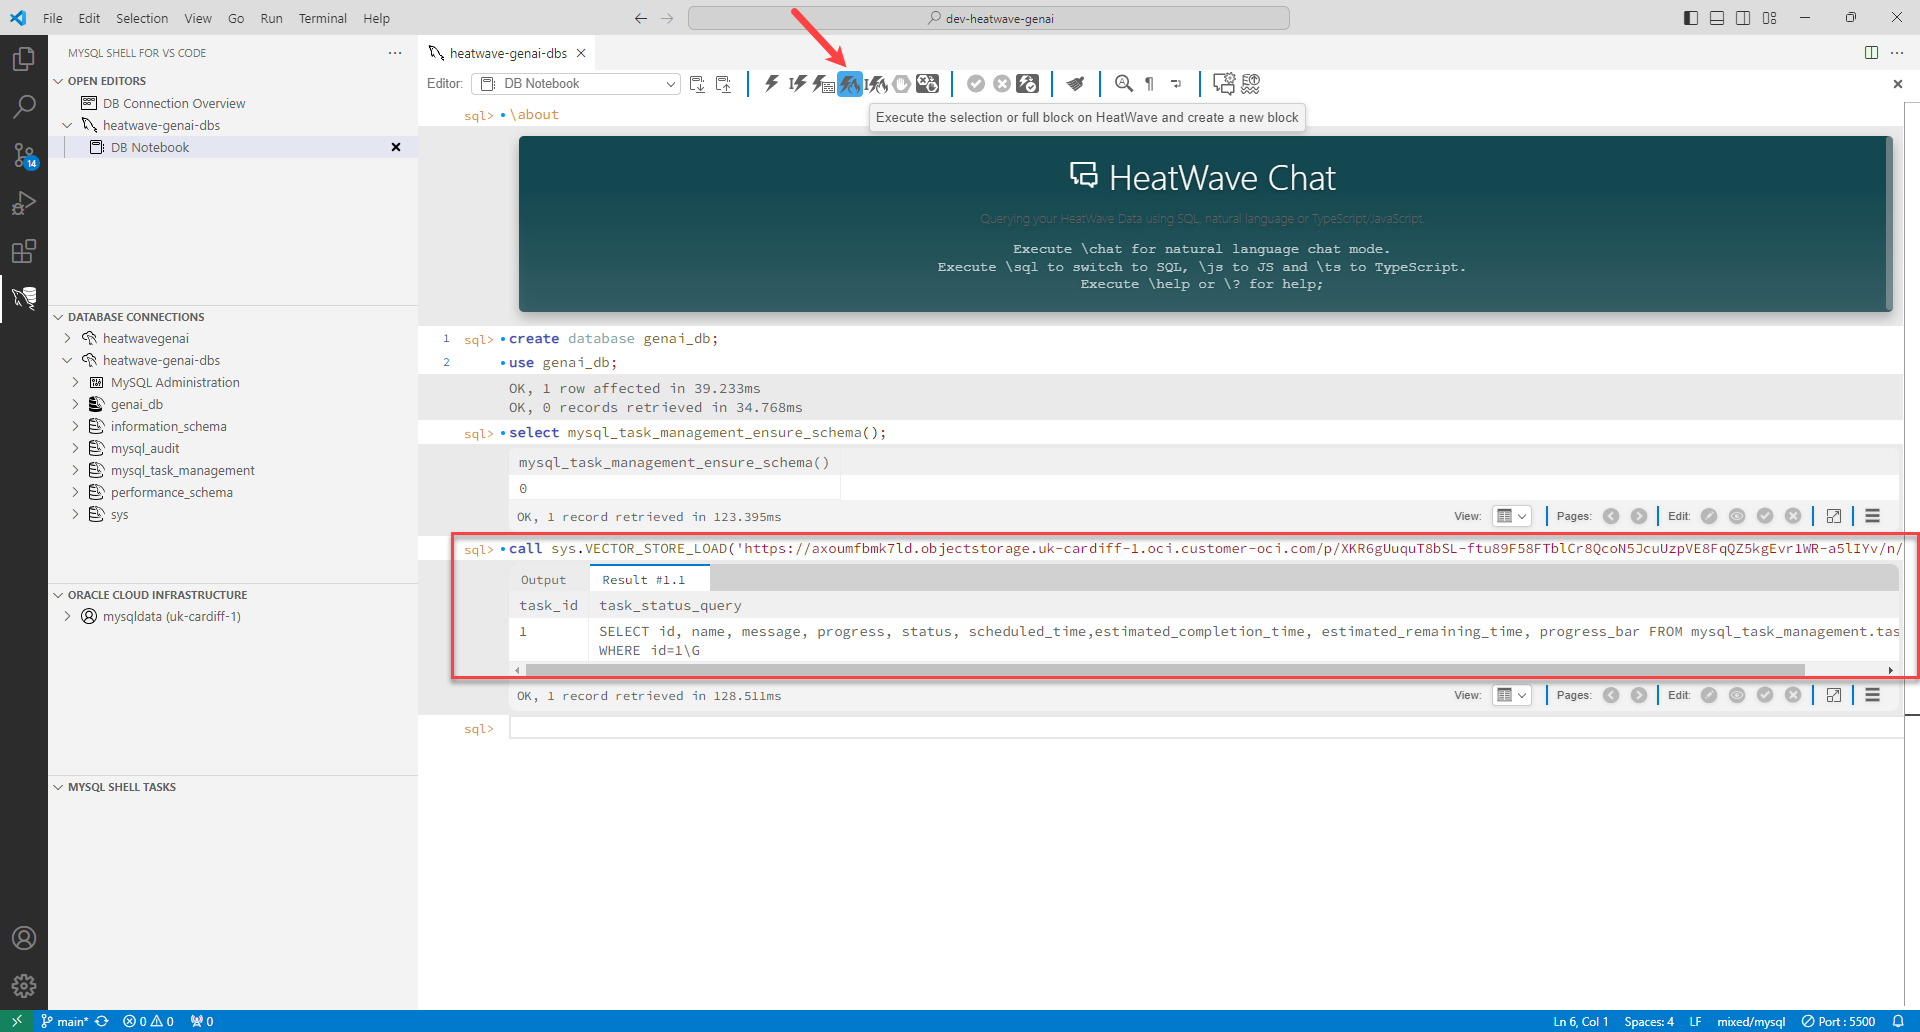
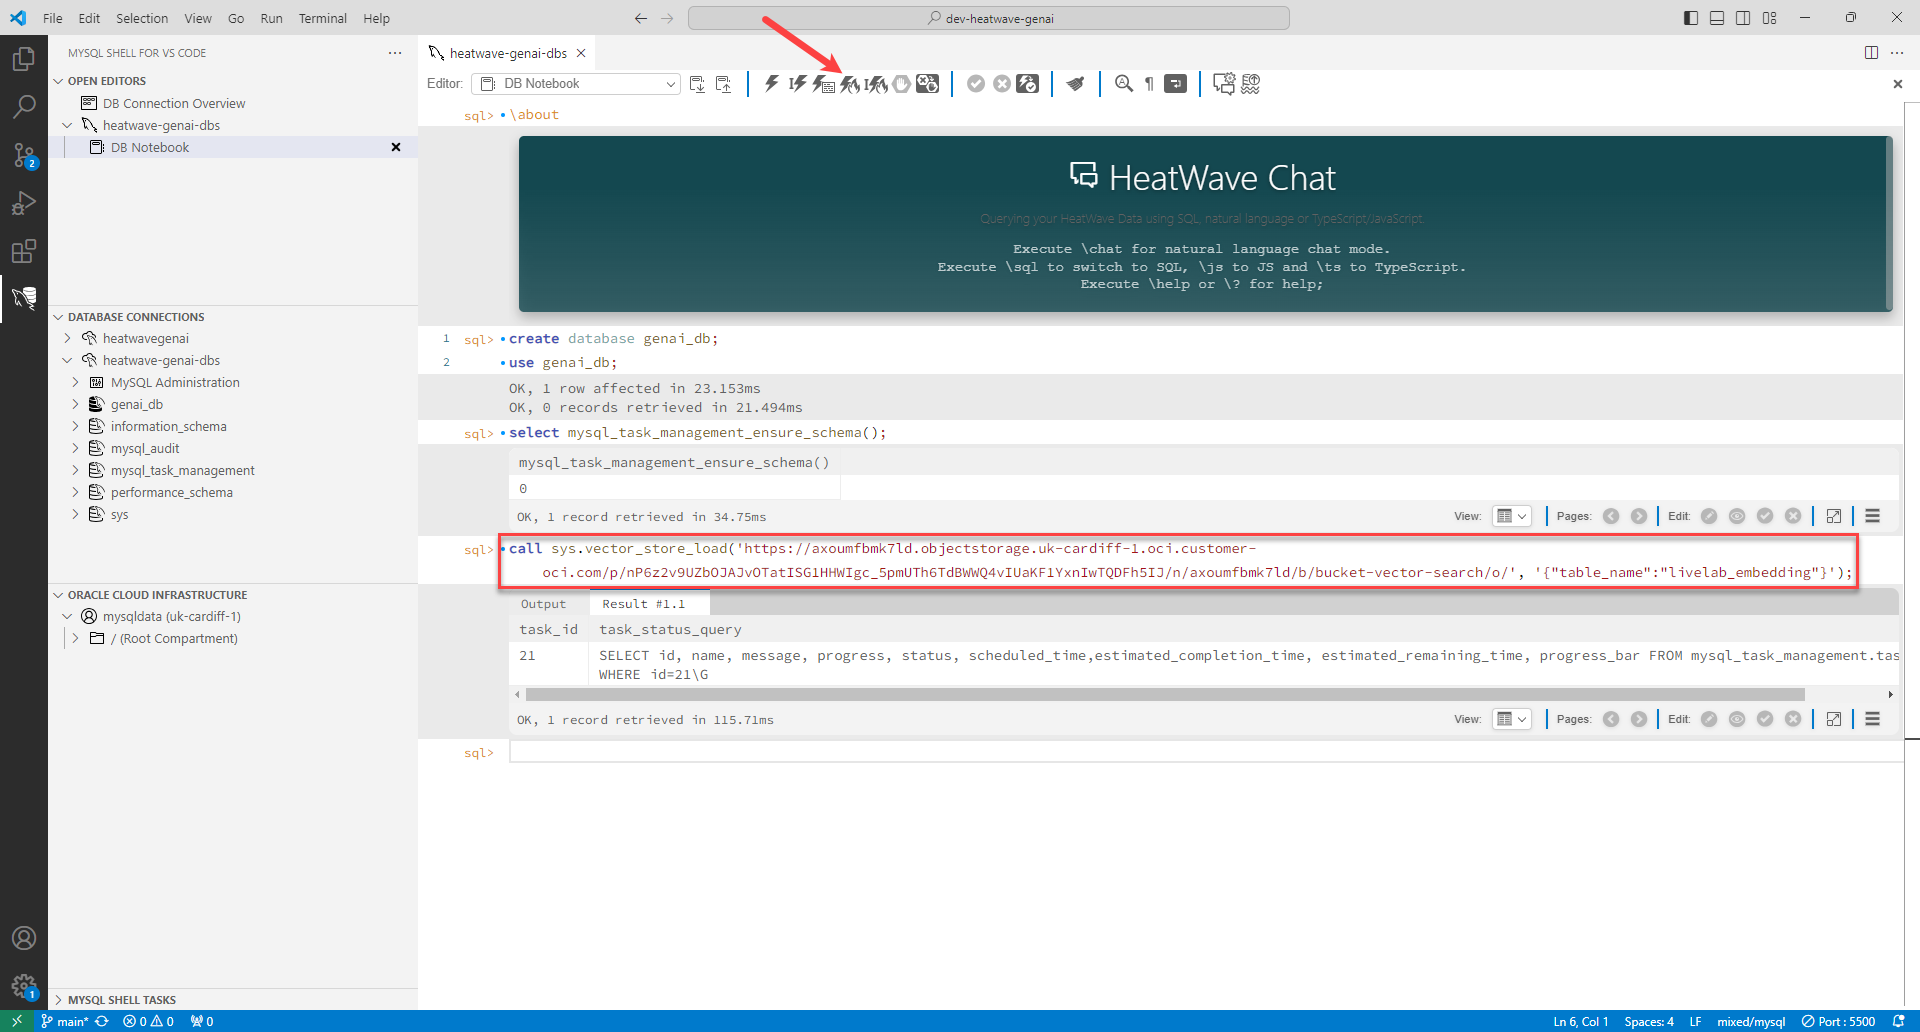
WMS ID: 11730: Updated Lab 5

diff --git a/vector-search/vector-search.md b/vector-search/vector-search.md
@@ -66,7 +66,13 @@ Pre-authenticated requests provide a way to let you access a bucket or an object
 
     ![Create Pre-Authenticated Request](./images/8-create-par.png "Create Pre-Authenticated Request")
 
-2. In the **Create Pre-Authenticated Request** dialog box, enter the **Name**, ensure **Bucket** is selected, and click **Create Pre-Authenticated Request**. You can choose to increase the **Expiration** date of the Pre-Authenticated Request.
+2. In the **Create Pre-Authenticated Request** dialog box, do the following:
+    - Enter the **Name**.
+    - Select **Bucket** in **Pre-Authenticated Request Target**.
+    - Select **Permits object reads** in **Access Type**.
+    - Select **Enable Object Listing**.
+    - You can choose to increase the **Expiration** date of the Pre-Authenticated Request.
+    - Click **Create Pre-Authenticated Request**. 
 
     ![Enter Pre-Authenticated Request details](./images/9-par-details.png "Enter Pre-Authenticated Request details")
 
@@ -116,7 +122,7 @@ Pre-authenticated requests provide a way to let you access a bucket or an object
 
     ![Ingest files from Object Storage](./images/14-ingest-files.png "Ingest files from Object Storage")
 
-5. Verify that embeddings are loaded in the vector embeddings table:
+5. Wait for a few minutes, and verify that embeddings are loaded in the vector embeddings table.
 
     ```bash
     <copy>select count(*) from <EmbeddingsTableName>;</copy>
@@ -125,14 +131,15 @@ Pre-authenticated requests provide a way to let you access a bucket or an object
     ```bash
     <copy>select count(*) from livelab_embedding; </copy>
     ```
+    You should see a numerical value in the output, which means your embeddings are successfully loaded in the table. If you get an error, wait for a few minutes and try again. It takes a couple of minutes to create vector embeddings.
 
-If you see a numerical value in the output, your embeddings are successfully loaded in the table.
+    ![Vector embeddings](./images/15-check-count.png "Vector embeddings")
 
 ## Task 5: Perform a vector search
 
 HeatWave retrieves content from the vector store and provide that as context to the LLM. This process is called as retrieval-augmented generation or RAG. This helps the LLM to produce more relevant and accurate results for your queries.
 
-1. Load the LLM in HeatWave.
+1. Load the LLM in HeatWave by entering the following command, and clicking **Execute the selection or full block on HeatWave and create a new block**.
 
     ```bash
     <copy>call sys.ML_MODEL_LOAD('LLMModel', NULL);</copy>
@@ -157,7 +164,7 @@ HeatWave retrieves content from the vector store and provide that as context to 
     For example:
 
     ```bash
-    <copy>set @options = JSON_OBJECT("vector_store", JSON_ARRAY("genai_db.livelab_embedding"));</copy>
+    <copy>set @options = JSON_OBJECT("vector_store", JSON_ARRAY("genai_db.livelab_embedding_pdf"));</copy>
     ```
 
 3. Set the session @query variable to define your natural language query.
@@ -174,14 +181,13 @@ HeatWave retrieves content from the vector store and provide that as context to 
     <copy>set @query="What is HeatWave AutoML?";</copy>
     ```
 
-    ![Set options](./images/17-set-options.png "Set options")
-
-
-4. Retrieve the augmented prompt, use the ML_RAG routine.
+4. Retrieve the augmented prompt, using the ML_RAG routine, and click **Execute the selection or full block on HeatWave and create a new block**.
 
     ```bash
     <copy>call sys.ML_RAG(@query,@output,@options);</copy>
     ```
+
+    ![Set options](./images/17-set-options.png "Set options")
 
 5. Print the output:
 
@@ -195,50 +201,7 @@ HeatWave retrieves content from the vector store and provide that as context to 
 
     - The citations section shows the segments and documents it referred to as context.
 
-The output looks similar to the following:
-
-```bash
-"text": " AutoML is a machine learning technique that automates the process
-of selecting, training, and evaluating machine learning models. It involves
-using algorithms and techniques to automatically identify the best model
-for a given dataset and optimize its hyperparameters without requiring manual
-intervention from data analysts or ML practitioners. AutoML can be used in
-various stages of the machine learning pipeline, including data preprocessing,
-feature engineering, model selection, hyperparameter tuning,
-and model evaluation.",
-"citations": [
-  {
-    "segment": "Oracle AutoML also produces high quality models very efficiently,
-    which is achieved through a scalable design and intelligent choices that
-    reduce trials at each stage in the pipeline.\n Scalable design: The Oracle
-    AutoML pipeline is able to exploit both HeatWave internode and intranode
-    parallelism, which improves scalability and reduces runtime.",
-    "distance": 0.4262576103210449,
-    "document_name": "https://objectstorage.Region.oraclecloud.com/n/Namespace/b/BucketName/o/Path/Filename"
-  },
-  {
-    "segment": "The HeatWave AutoML ML_TRAIN routine leverages Oracle AutoML
-    technology to automate the process of training a machine learning model.
-    Oracle AutoML replaces the laborious and time consuming tasks of the data
-    analyst whose workflow is as follows:\n1. Selecting a model from a large
-    number of viable candidate models.\n2.\n99",
-    "distance": 0.4311879277229309,
-    "document_name": " https://objectstorage. Region.oraclecloud.com/n/Namespace/b/BucketName/o/Path/Filename"
-  },
-  {
-    "segment": "3.1 HeatWave AutoML Features HeatWave AutoML makes it easy to
-    use machine learning, whether you are a novice user or an experienced ML
-    practitioner. You provide the data, and HeatWave AutoML analyzes the
-    characteristics of the data and creates an optimized machine learning model
-    that you can use to generate predictions and explanations.",
-    "distance": 0.4441382884979248,
-    "document_name": "https://objectstorage. Region.oraclecloud.com/n/Namespace/b/BucketName/o/Path/Filename"
-  }
-],
-"vector_store": [
-  "demo_db.demo_embeddings"
-]
-```
+    ![Vector search results](./images/18-vector-search-output.png "Vector search results")
 ## Learn More
 
 - [HeatWave User Guide](https://dev.mysql.com/doc/heatwave/en/)
